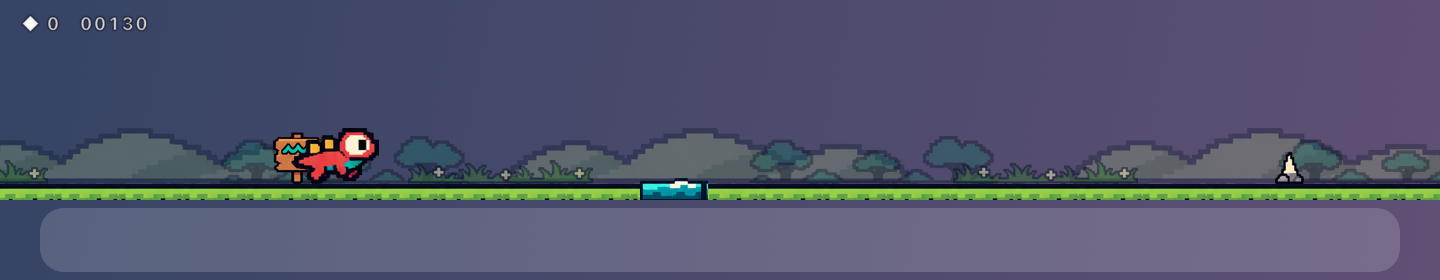
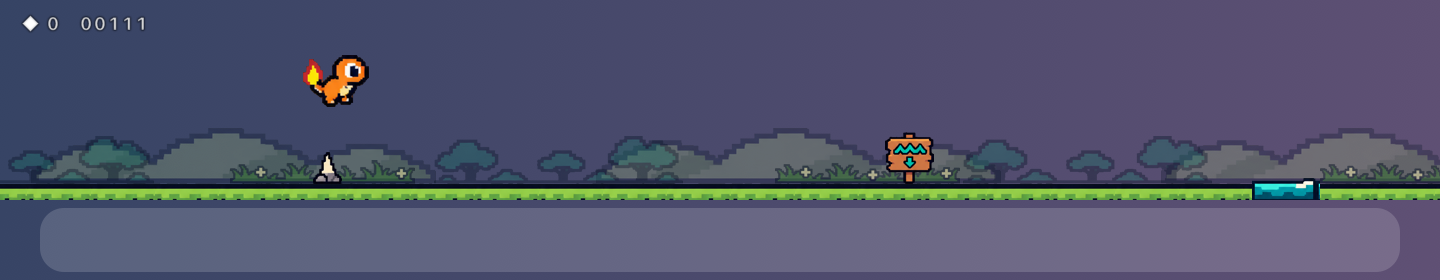
Use supplied Pokemon starters and Team Rocket artwork

Changed region(s): [[0.0, 0.4571, 1.0, 0.7143], [0.1875, 0.2, 0.2812, 0.4], [0.0625, 0.0571, 0.125, 0.1143]]

diff --git a/Sources/Art.swift b/Sources/Art.swift
@@ -21,7 +21,7 @@ struct Sprite {
 
 struct Cut { let image: CGImage; let w: Int; let h: Int }   // trimmed source frame (source px)
 
-enum ArtError: Error { case missing(String) }
+enum ArtError: Error { case missing(String), invalidSheet(String) }
 
 func loadSheet(_ dir: URL, _ name: String) throws -> CGImage {
     let url = dir.appendingPathComponent(name + ".png")
@@ -130,11 +130,11 @@ func makeSprite(_ c: Cut, k: Double) -> Sprite {
                   mask: mask, mw: mw, mh: mh)
 }
 
-/// All sprites the game uses. Original-mode art only.
+/// All sprites the game uses, including the user-supplied Pokémon character sheets.
 final class Art {
     struct Stage { let idle: [Sprite]; let run: [Sprite]; let jump: [Sprite] }
     struct Family { let id: String; let name: String; let stages: [Stage] }
-    /// Starter families that loaded (the ember gecko always; the others if their sheet is present and cuts cleanly).
+    /// All three starter families, each with three evolution stages.
     let families: [Family]
     var hero: [Stage] { families[0].stages }
     let orb: [Sprite], orbBounce: [Sprite], orbOpen: [Sprite], sparkle: [Sprite]
@@ -143,7 +143,8 @@ final class Art {
     let crab: [Sprite], mole: [Sprite]
     let explorerCheer: [Sprite]
     let balloon: [Sprite]
-    let gruntIdle: [Sprite], gruntRun: [Sprite], gruntDown: Sprite   // moth-gang grunt; knocked flat
+    struct GangMember { let idle: [Sprite]; let run: [Sprite]; let down: Sprite }
+    let gangMembers: [GangMember]      // Jessie and James, with a stable appearance per encounter
     let smallOrb: [Sprite]             // thrown capture orbs (smaller than the collectible ones)
     let swirl: [CGImage]               // cartoon dizzy-eyes swirl, 4 rotation frames
     let ground: [CGImage]              // per biome: a thin top strip (16 x 4 logical) that tiles
@@ -156,9 +157,9 @@ final class Art {
 
     init(dir: URL) throws {
         func row(_ r: Int, in sheet: [[Cut?]]) -> [Cut] { sheet[r].compactMap { $0 } }
-        func family(_ file: String) throws -> [Stage]? {
+        func family(_ file: String) throws -> [Stage] {
             let sheet = cutSheet(try loadSheet(dir, file), cols: 6, rows: 9)
-            guard sheet.allSatisfy({ $0.compactMap { $0 }.count >= 2 }) else { return nil }   // a draft that didn't cut cleanly
+            guard sheet.allSatisfy({ $0.compactMap { $0 }.count == 6 }) else { throw ArtError.invalidSheet(file) }
             return (0..<3).map { s in
                 let idle = row(s * 3, in: sheet), run = row(s * 3 + 1, in: sheet), jump = row(s * 3 + 2, in: sheet)
                 // One scale per stage from the idle pose, so running/jumping poses keep their true size relative to it.
@@ -166,13 +167,9 @@ final class Art {
                 return Stage(idle: idle.map { makeSprite($0, k: k) }, run: run.map { makeSprite($0, k: k) }, jump: jump.map { makeSprite($0, k: k) })
             }
         }
-        var fams = [Family(id: "ember", name: "Ember Gecko", stages: try family("ember-gecko-evolutions")!)]
-        for (id, file, name) in [("thistle", "thistle-hedgehog-evolutions", "Thistle Hedgehog"), ("ripple", "ripple-newt-evolutions", "Ripple Newt")] {
-            if FileManager.default.fileExists(atPath: dir.appendingPathComponent(file + ".png").path), let st = try family(file) {
-                fams.append(Family(id: id, name: name, stages: st))
-            }
+        families = try [("charmander", "Charmander"), ("bulbasaur", "Bulbasaur"), ("squirtle", "Squirtle")].map { id, name in
+            Family(id: id, name: name, stages: try family(id + "-evolutions"))
         }
-        families = fams
 
         let objs = cutSheet(try loadSheet(dir, "orbs-obstacles-signs"), cols: 6, rows: 6, minBlob: 6)
         let orbK = 9 / Double(row(0, in: objs).map(\.h).max()!)
@@ -195,13 +192,16 @@ final class Art {
         let expK = 18 / Double(row(5, in: critters).map(\.h).max()!)
         explorerCheer = row(5, in: critters).map { makeSprite($0, k: expK) }
 
-        let gang = cutSheet(try loadSheet(dir, "moth-balloon-gang"), cols: 6, rows: 6)
+        let gang = cutSheet(try loadSheet(dir, "team-rocket"), cols: 6, rows: 9)
+        guard [0, 3, 4, 6, 7].allSatisfy({ row($0, in: gang).count == 6 }) else { throw ArtError.invalidSheet("team-rocket") }
         let balK = 34 / Double(row(0, in: gang).map(\.h).max()!)
         balloon = row(0, in: gang).map { makeSprite($0, k: balK) }
-        let gK = 12 / Double(row(3, in: gang).map(\.h).max()!)
-        gruntIdle = row(3, in: gang).map { makeSprite($0, k: gK) }
-        gruntRun = row(4, in: gang).map { makeSprite($0, k: gK) }
-        gruntDown = makeSprite(rotateCut(row(3, in: gang)[0]), k: gK)
+        gangMembers = [3, 6].map { r in
+            let idle = row(r, in: gang), run = row(r + 1, in: gang)
+            let k = 12 / Double(idle.map(\.h).max()!)
+            return GangMember(idle: idle.map { makeSprite($0, k: k) }, run: run.map { makeSprite($0, k: k) },
+                              down: makeSprite(rotateCut(idle[0]), k: k))
+        }
         swirl = (0..<4).map { swirlImage(phase: Double($0) / 4) }
 
         let terrain = cutSheet(try loadSheet(dir, "terrain-water-lava"), cols: 6, rows: 6, minBlob: 6)

diff --git a/Sources/main.swift b/Sources/main.swift
@@ -200,13 +200,16 @@ final class Scene {
                 let bob = moving ? (sin(t.t * 5) * 0.8).rounded() : 0
                 sprite("thing", art.orb[moving ? Int(t.t * 8) % art.orb.count : 0], feetX: cx, y: t.y + bob)
             case .pit: break
-            case .grunt: sprite("thing", art.gruntRun[moving ? Int(t.t * 10) % art.gruntRun.count : 0], feetX: cx, y: 0)
+            case .grunt:
+                let member = art.gangMembers[t.id % art.gangMembers.count]
+                sprite("thing", member.run[moving ? Int(t.t * 10) % member.run.count : 0], feetX: cx, y: 0)
             case .gruntDown:
                 // Knocked flat with swirly eyes, spinning.
-                sprite("thing", art.gruntDown, feetX: cx, y: 0)
+                let down = art.gangMembers[t.id % art.gangMembers.count].down
+                sprite("thing", down, feetX: cx, y: 0)
                 let l = pooled("thing")
                 let sw = art.swirl[moving ? Int(t.t * 12) % art.swirl.count : 0]
-                put(l, sw, frame(t.x + t.w / 2 + art.gruntDown.w / 2 - 6.5, 1.5, 6, 6))
+                put(l, sw, frame(t.x + t.w / 2 + down.w / 2 - 6.5, 1.5, 6, 6))
             case .thrownOrb, .capOrb:
                 sprite("thing", art.smallOrb[moving ? Int(t.t * 14) % art.smallOrb.count : 0], feetX: cx, y: t.y)
             }
@@ -252,7 +255,7 @@ final class Scene {
         heroL.opacity = g.phase == .dying && moving && Int(g.dyingT * 12) % 2 == 1 ? 0.25 : 1
         heroL.isHidden = (picking && g.phase == .ready) || (g.phase == .dying && g.y < -6) || ((g.phase == .dying || g.phase == .over) && g.captured && g.dyingT > 0.2)
         if g.captured && (g.phase == .dying || g.phase == .over) {
-            // The capture orb pops open, snaps shut around the gecko, then wobbles three times.
+            // The capture orb pops open, snaps shut around the starter, then wobbles three times.
             let k = g.dyingT
             let f: Sprite
             if k < 0.45 { f = art.orbOpen[max(0, min(art.orbOpen.count - 1, art.orbOpen.count - 1 - Int(k / 0.45 * Double(art.orbOpen.count))))] }
@@ -726,6 +729,8 @@ func selftest() -> Int32 {
     // Art: every sheet cut, hero forms at their heights, adult apex inside the strip.
     let art = try! Art(dir: artDir())
     check(art.families.count == 3, "three starters load (\(art.families.map(\.name)))")
+    check(art.families.map(\.id) == ["charmander", "bulbasaur", "squirtle"], "Pokémon starter sheets are active")
+    check(art.gangMembers.count == 2 && art.gangMembers.allSatisfy { $0.idle.count == 6 && $0.run.count == 6 }, "Jessie and James animation frames load")
     for f in art.families {
         check(f.stages.count == 3 && f.stages.allSatisfy { $0.idle.count == 6 && $0.run.count == 6 && $0.jump.count == 6 }, "\(f.name): 3 x (6 idle, 6 run, 6 jump)")
         for (i, st) in f.stages.enumerated() {

diff --git a/Sources/Game.swift b/Sources/Game.swift
@@ -43,7 +43,7 @@ enum Phase: Equatable { case ready, running, evolving, paused, dying, over }
 
 enum Kind: Equatable {
     case rock, spike, crate, boulder, crab, mole       // ground hazards
-    case grunt                                          // moth-gang grunt: jump over it to defeat it
+    case grunt                                          // Team Rocket member: jump over them to defeat it
     case gruntDown                                      // defeated grunt (scenery, swirly eyes)
     case thrownOrb                                      // capture orb in flight; harmless until it lands
     case capOrb                                         // capture orb rolling on the ground: touching it captures you

diff --git a/README.md b/README.md
@@ -1,28 +1,28 @@
 # Embertrail
 
-A tiny endless runner that lives in a see-through strip just above your macOS Dock. Pick your starter (an ember gecko, a thistle hedgehog or a ripple newt) and run across meadows, crystal caves and volcanoes. Jump rocks and spikes, clear water pits, collect orbs, dodge the moth-balloon gang's capture orbs, knock out its grunts, and watch your starter evolve twice along the way.
+A tiny endless runner that lives in a see-through strip just above your macOS Dock. Pick your starter (Charmander, Bulbasaur or Squirtle) and run across meadows, crystal caves and volcanoes. Jump rocks and spikes, clear water pits, collect orbs, dodge Team Rocket’s capture orbs, knock out its grunts, and watch your starter evolve twice along the way.
 
-![Embertrail: the gecko runs, the moth-balloon drops a rock, then evolves into the cave stage](docs/demo.gif)
+![Embertrail: Charmander runs, Team Rocket drops a rock, then evolves into the cave stage](docs/demo.gif)
 
 | Meadow | Crystal cave | Volcano |
 |---|---|---|
-| ![Meadow stage with a water pit and its wave sign](docs/meadow.png) | ![Cave stage with an orb arc over a rock](docs/cave.png) | ![Volcano stage with the adult drake](docs/volcano.png) |
+| ![Meadow stage with a water pit and its wave sign](docs/meadow.png) | ![Cave stage with an orb arc over a rock](docs/cave.png) | ![Volcano stage with Charizard](docs/volcano.png) |
 
 ## Choose your starter
 
-Three original starters, each with three forms:
+Three Pokémon starters, each with three forms:
 
-- **Ember Gecko** (fire)
-- **Thistle Hedgehog** (grass)
-- **Ripple Newt** (water)
+- **Charmander → Charmeleon → Charizard** (fire)
+- **Bulbasaur → Ivysaur → Venusaur** (grass)
+- **Squirtle → Wartortle → Blastoise** (water)
 
 Pick one the first time you play. Switch anytime with **Change starter** on the home screen, or from the menu-bar menu ▸ Starter. Every starter plays by exactly the same rules.
 
-![Choose your starter: Ember Gecko, Thistle Hedgehog, Ripple Newt](docs/starters.png)
+![Choose your starter: Charmander, Bulbasaur, Squirtle](docs/starters.png)
 
 ## Play
 
-1. Click **▶ Play** on the strip (or the gecko in the menu bar ▸ **Play**). The strip takes keyboard focus only now, never on its own.
+1. Click **▶ Play** on the strip (or the character icon in the menu bar ▸ **Play**). The strip takes keyboard focus only now, never on its own.
 2. **Space** or **↑** to jump (one fixed jump; no hold-to-fly). Clicking the strip while playing also jumps.
 3. **Esc** pauses and hands focus back to your other app. **P** pauses or resumes; **Enter** starts or restarts.
 
@@ -31,10 +31,10 @@ Pick one the first time you play. Switch anytime with **Change starter** on the 
 - **Orbs:** worth 10 points each. When they hang in an arc, the arc shows a safe jump.
 - **Score:** distance (1 point per 8 px) plus orbs. Your best score is saved.
 - **Evolution:** at 30 s of running your starter takes its second form and the world turns into a crystal cave; at 75 s it takes its final form in a volcanic field. It always waits for safe ground first.
-- **Grunt ambush:** a moth-gang grunt throws small capture orbs. They land and roll at you, so jump them, because if one touches you, you're captured: the orb snaps shut and wobbles, and it's game over. Then jump right over the grunt to knock it out cold (swirly eyes, +25).
+- **Grunt ambush:** Jessie or James throws small capture orbs. They land and roll at you, so jump them, because if one touches you, you're captured: the orb snaps shut and wobbles, and it's game over. Then jump right over the grunt to knock it out cold (swirly eyes, +25).
 
   ![A grunt ambush: rolling capture orbs, then the grunt knocked out with swirly eyes](docs/ambush.gif)
-- **Balloon gang:** after 20 s the moth-balloon gang may drift in. It marks a spot on the ground, then drops one rock there, always well ahead of you. If there's no fair spot, it just leaves.
+- **Balloon gang:** after 20 s Team Rocket’s Meowth balloon may drift in. It marks a spot on the ground, then drops one rock there, always well ahead of you. If there's no fair spot, it just leaves.
 
 When you're not playing, only the Play button is clickable. Hover anywhere else on the strip and it fades away, with clicks going straight through to your windows, and the game pauses on its own when you switch apps, lock the screen or sleep.
 
@@ -79,4 +79,4 @@ build/Embertrail.app/Contents/MacOS/Embertrail --record out.gif --from 19.5 --to
 
 ## Art and licence
 
-All the art is original, made with AI image generation for this project, and no third-party assets are included. See [docs/PROVENANCE.md](docs/PROVENANCE.md). No licence has been chosen yet for the code or the art.
+This is an unofficial Pokémon fan project, not affiliated with or endorsed by Nintendo, Game Freak, Creatures, or The Pokémon Company. The Pokémon and Team Rocket sprite sheets were supplied by the user; the scenery and other assets come from the original Embertrail art set. See [docs/PROVENANCE.md](docs/PROVENANCE.md). No licence has been chosen for the code; no redistribution licence was supplied with the Pokémon artwork.

diff --git a/docs/PROVENANCE.md b/docs/PROVENANCE.md
@@ -1,8 +1,22 @@
 # Art provenance
 
-- All sprite sheets in `Resources/Art/` (the ember gecko, thistle hedgehog and ripple newt families, critters and explorer, the moth-balloon gang, orbs, obstacles, signs, terrain, water, parallax biomes and the bitmap font) are original drafts made with AI image generation for this project.
-- They are not ripped game sprites, and they don't come from a downloaded asset pack.
-- The chunky pixel style was inspired by [Arks' Dino Characters](https://arks.itch.io/dino-characters). That pack is licensed CC BY 4.0, but none of its files are included here, and its licence doesn't apply to these sheets.
-- No third-party assets are bundled, so there are no attribution lines to give.
-- No licence has been chosen yet for the code or the art.
-- The thistle hedgehog and ripple newt sheets were generated as JPGs on white. `Tools/keyout.swift` made their backgrounds transparent.
+## Active character artwork
+
+The user supplied these transparent PNG sprite sheets on 3 November 2026 for use in Embertrail:
+
+- `Resources/Art/charmander-evolutions.png`: Charmander, Charmeleon, Charizard.
+- `Resources/Art/bulbasaur-evolutions.png`: Bulbasaur, Ivysaur, Venusaur.
+- `Resources/Art/squirtle-evolutions.png`: Squirtle, Wartortle, Blastoise.
+- `Resources/Art/team-rocket.png`: Meowth balloon, Jessie, and James.
+
+These files are copied unchanged from the supplied PNGs. The runtime slices their animation frames, scales them to the game’s existing sprite sizes, and anchors them at the feet. The earlier opaque ZIP sheets are not bundled.
+
+The characters are Pokémon designs, not original Embertrail characters. This is an unofficial fan project, not affiliated with or endorsed by Nintendo, Game Freak, Creatures, or The Pokémon Company. No licence or attribution document accompanied the supplied sheets; this repository does not claim ownership or grant rights to the Pokémon character artwork.
+
+## Original Embertrail art
+
+The scenery, terrain, obstacles, orbs, critters, explorer, and unused bitmap font are AI-generated drafts from the original Embertrail art set. The previous gecko, hedgehog, newt, and moth-gang sheets remain in the repository but are no longer selected by the game.
+
+The original art style was inspired by Arks’ Dino Characters (https://arks.itch.io/dino-characters), but no files from that pack are included. The hedgehog and newt drafts were originally generated on white and processed with `Tools/keyout.swift`.
+
+No licence has been chosen for the code or the original art.
